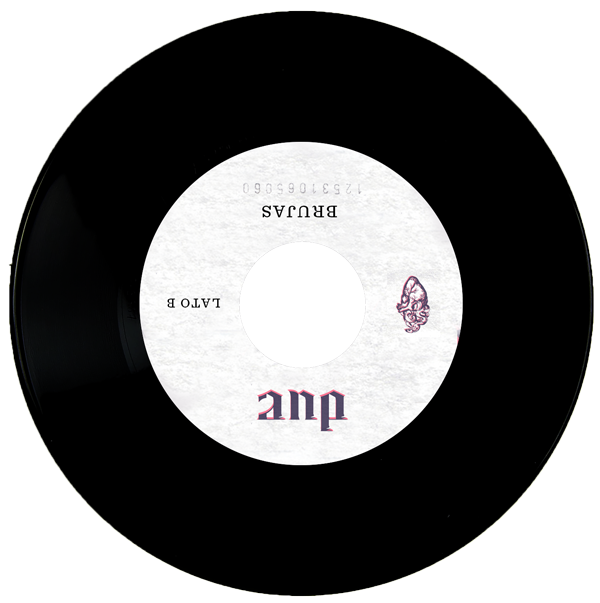
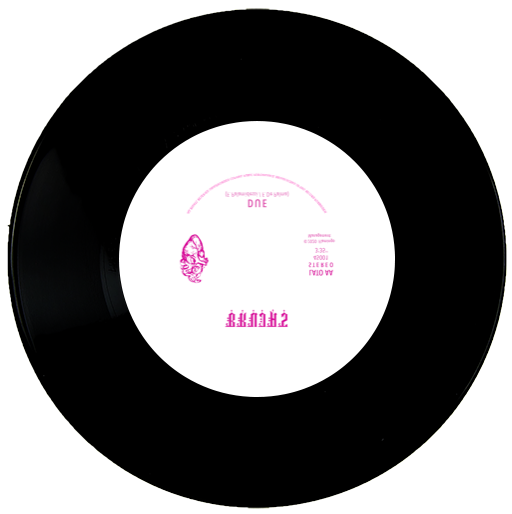
*

diff --git a/src/LP.js b/src/LP.js
@@ -19,7 +19,7 @@ extend({ VideoMaterial })
 
 const Vinyl = ({ side, ...props }) => {
   const ref = useRef()
-  const [map, map1] = useLoader(TextureLoader, ["/vinyl-c.png", "/vinyl-b.png"])
+  const [map, map1] = useLoader(TextureLoader, ["/vinyl-a.png", "/vinyl-b.png"])
 
   useEffect(() => {
     // if (side === "B") {
